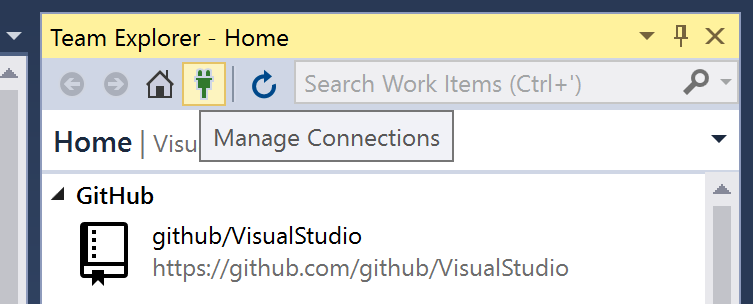
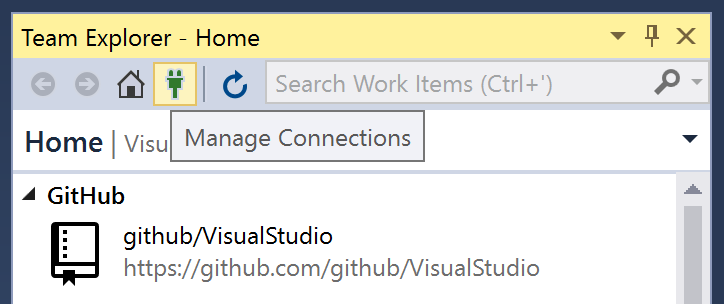
Added screenshots to create documentation.

diff --git a/docs/contributing/creating-an-empty-repository-from-visual-studio.md b/docs/contributing/creating-an-empty-repository-from-visual-studio.md
@@ -1,11 +1,27 @@
 # Creating an empty repository from Visual Studio
 
 1. Sign in to GitHub
-2. Open **Team Explorer**. TODO: screenshot
-3. Click the **Manage Connections** toolbar button. TODO: screenshot
-4. Click the **Create** link next to the account you want to create the repository in. TODO: screenshot
-5. In the **Create a GitHub Repository** dialog, enter a name, description and local path for the repository. TODO: screenshot
+
+2. Open **Team Explorer** by clicking on its tab next to *Solution Explorer*, or via the *View* menu.
+
+3. Click the **Manage Connections** toolbar button.
+
+   ![image](images/manage-connections.png)
+
+4. Click the **Create** link next to the account you want to create the repository in.
+
+   ![image](images/create-link.png)
+
+5. In the **Create a GitHub Repository** dialog, enter a name, description and local path for the repository. 
+
+   ![image](images/create-dialog.png)
+
 6. Select a license for the repository.
+
 7. Check the **Private Repository** box if you want to upload the repository as a private repository on GitHub. You must have a [Developer, Team or Business account](https://github.com/pricing) to create private repositories.
+
 8. Click the **Create** button to create the repository
-9. When the repository is created, click the **Create a new Project or Solution** link in Team Explorer to create a project or solution in the repository. TODO: screenshot
+
+9. When the repository is created, click the **Create a new Project or Solution** link in Team Explorer to create a project or solution in the repository.
+
+![image](images/successful-creation-message.png)
